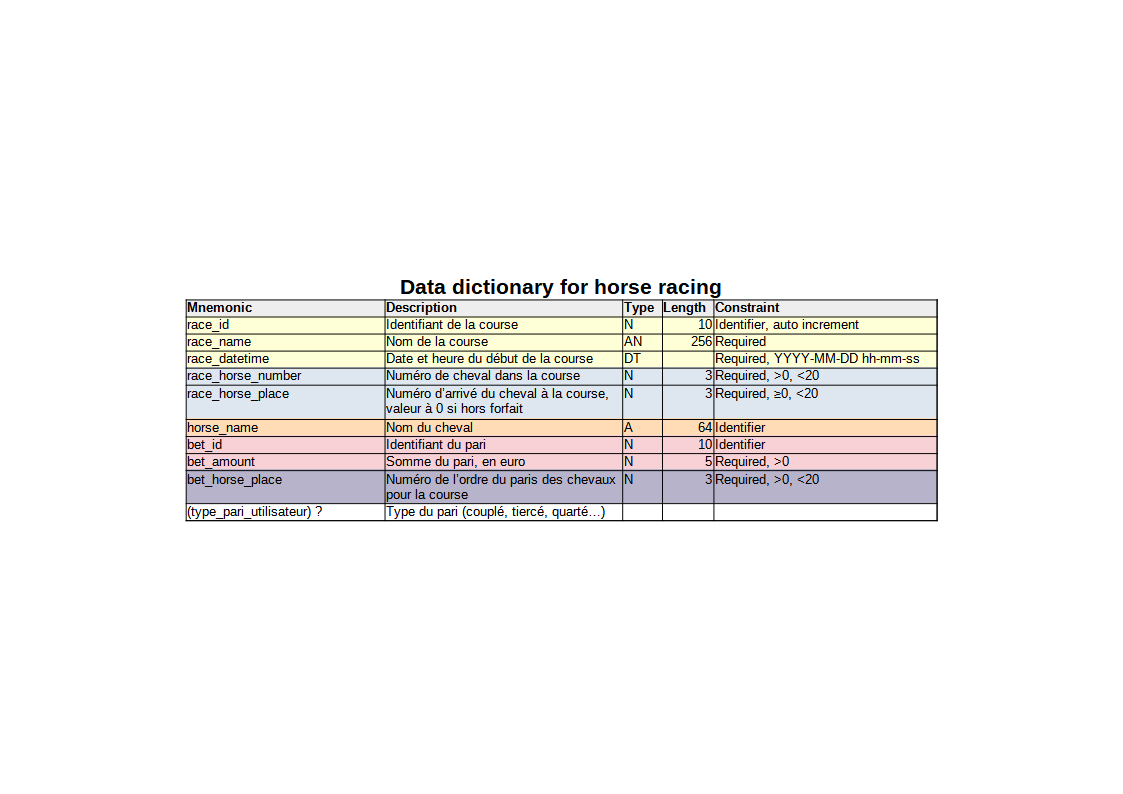
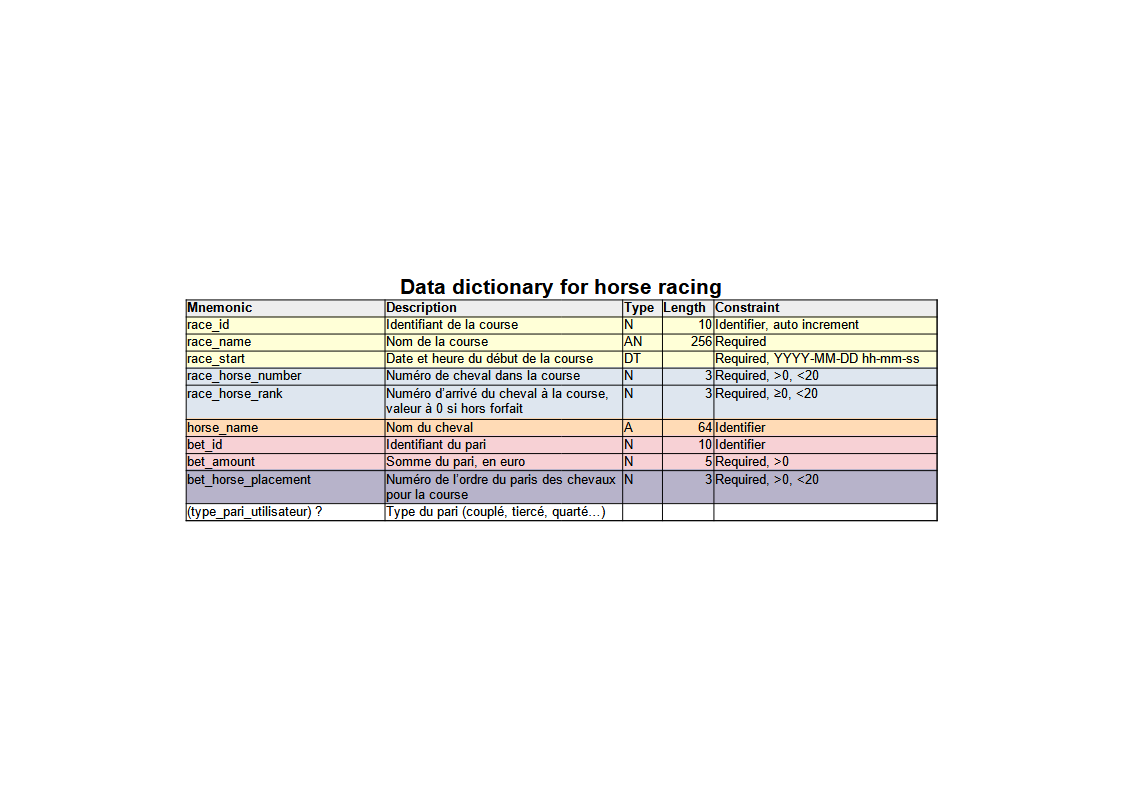
Meurise horse racing add implement sql

diff --git a/bdd/merise/03/1_horse_racing/3_functional_dependencies.md b/bdd/merise/03/1_horse_racing/3_functional_dependencies.md
@@ -1,17 +1,18 @@
 Horse racing - functional dependencies
 ========
 
-**race_id**         -> race_name, race_datetime
+### Simple
+
+**race_id**         -> race_name, race_start
 
 **bet_id**          -> bet_amount, *#race_id*
 
 **horse_name**
 
-- Others attributes :
+### Compound functional dependencies
 
->race_horse_number, race_horse_place
->bet_horse_place
+**race_id**         -> race_name, race_start, *#bet_id*, *#horse_name*, race_horse_number, race_horse_rank
 
+**horse_name**      -> *race_horse_number*, *race_horse_rank*, *#race_id*, *bet_horse_placement*, *#bet_id*
 
-
-
+**bet_id**          -> *bet_horse_placement*, *#horse_name*

diff --git a/bdd/merise/03/1_horse_racing/4_management_rules.md b/bdd/merise/03/1_horse_racing/4_management_rules.md
@@ -6,4 +6,7 @@ Horse racing - management rules
     - Une course peut avoir 0 ou plusieurs paris
 - **horses** and **races**
     - un cheval peut courir à 0 ou plusieurs courses
-    - une courses fait courir 
+    - une courses fait courir de 3 à 20 chevaux
+- **horses** and **bets**
+    - un cheval peut être selectionné dans 0 ou plusieurs paris
+    - un paris peut selectionner 2 ou plusieurs paris

diff --git a/bdd/merise/03/1_horse_racing/1_statement.md b/bdd/merise/03/1_horse_racing/1_statement.md
@@ -20,3 +20,7 @@ Horse racing - statement
 - *Le gain total du parieur pour la course* (couplé = **somme jouée** x 2, tiercé = somme jouée * 3, etc...).
  
 *Les noms de chevaux sont uniques* et *les noms de courses sont uniques* *(à un instant donné)*.
+
+
+# bonus
+A voir : https://casaqueverte.com/wp-content/uploads/2014/07/ticket-quint%C3%A9+.png
